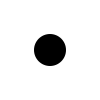
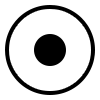
add hints

Changed region(s): [[0.03, 0.03, 0.96, 0.96]]

diff --git a/main.cpp b/main.cpp
@@ -7,12 +7,30 @@
 #include <QMouseEvent>
 #include <QToolButton>
 #include <QPushButton>
+#include <QCheckBox>
 #include <QIcon>
-#include <QSignalMapper>
+#include <QTimer>
 
 #include "game.h"
 
 Game *game;
+
+void Game::update() {
+
+	if (game->hint) {
+		int x = QCursor::pos().x() - guiBoard[0]->mapToGlobal(QPoint(0,0)).x();
+		int y = QCursor::pos().y() - guiBoard[0]->mapToGlobal(QPoint(0,0)).y();
+
+		x /= STONE_SIZE;
+		y /= STONE_SIZE;
+		if (x < BOARD_SIZE && y < BOARD_SIZE && x >= 0 && y >= 0) {
+			doHint(x, y);
+		} else {
+			doHint(-1, -1);
+		}
+	}
+
+}
 
 /* 可以偵測滑鼠事件的視窗 */
 class QMouseEventWindow : public QWidget {
@@ -27,7 +45,7 @@ void QMouseEventWindow::mouseReleaseEvent(QMouseEvent *event) {
 	int y = event->y();
 	x /= STONE_SIZE;
 	y /= STONE_SIZE;
-	if (x < BOARD_SIZE && y < BOARD_SIZE) {
+	if (x < BOARD_SIZE && y < BOARD_SIZE && x >= 0 && y >= 0) {
 		printf("Drop: (%d, %d)\n", x, y);
 		game->drop(x, y);
 	}
@@ -47,12 +65,6 @@ int main(int argc, char *argv[]) {
 	window->setFixedSize(boardWidth+200, boardWidth);
 	QWidget *board = new QWidget(window);
 	board->setFixedSize(boardWidth, boardWidth);
-
-	/* 棋盤網格排版 */
-	QGridLayout *grid = new QGridLayout;
-	grid->setSpacing(0);
-	grid->setMargin(0);
-	grid->setGeometry(QRect(0, 0, 10, 100));
 
 	/* 載入棋子圖片 */
 	QPixmap *stoneWPix = new QPixmap(":/img/stoneW.png");
@@ -75,6 +87,13 @@ int main(int argc, char *argv[]) {
 	*stoneBsPixS = stoneBsPix->scaled(stoneSize, stoneSize, Qt::IgnoreAspectRatio, Qt::SmoothTransformation);
 	QPixmap *nullPix = new QPixmap(":/img/null.png");
 
+
+	/* 棋盤網格排版 */
+	QGridLayout *grid = new QGridLayout;
+	grid->setSpacing(0);
+	grid->setMargin(0);
+	grid->setGeometry(QRect(0, 0, 10, 100));
+
 	/* 構建棋盤 */
 	QLabel *square[BOARD_SIZE*BOARD_SIZE];
 	for (int i=0; i<boardSize; i++) {
@@ -84,6 +103,7 @@ int main(int argc, char *argv[]) {
 			square[i*BOARD_SIZE+j]->setAlignment(Qt::AlignCenter);
 			square[i*BOARD_SIZE+j]->setAttribute(Qt::WA_TranslucentBackground);
 			// square[i*BOARD_SIZE+j]->setPixmap();
+			square[i*BOARD_SIZE+j]->setAttribute(Qt::WA_TransparentForMouseEvents, true);
 			grid->addWidget(square[i*BOARD_SIZE+j], i, j);
 		}
 	}
@@ -96,19 +116,31 @@ int main(int argc, char *argv[]) {
 		nullPix);
 	game->reset();
 
+	/* 計時器 */
+	QTimer *update = new QTimer;
+	update->start(10);
+	QObject::connect(update, SIGNAL(timeout()), game, SLOT(update()));
+
+	/* UI */
+	QCheckBox *hintCheckBox = new QCheckBox("Show hints");
+	hintCheckBox->setParent(window);
+	hintCheckBox->setGeometry(boardWidth+50, 50, 100, 40);
+	QObject::connect(hintCheckBox, SIGNAL(stateChanged(int)), game, SLOT(hintSwitch(int)));
+
 	/* 按鍵 */
 	QPushButton *restartBtn = new QPushButton("Restart");
 	restartBtn->setParent(window);
-	restartBtn->setGeometry(boardWidth+50, 70, 100, 40);
+	restartBtn->setGeometry(boardWidth+50, 200, 100, 40);
 	QObject::connect(restartBtn, SIGNAL(clicked()), game, SLOT(reset()));
 
 	QPushButton *exitBtn = new QPushButton("Exit");
 	exitBtn->setParent(window);
-	exitBtn->setGeometry(boardWidth+50, 120, 100, 40);
+	exitBtn->setGeometry(boardWidth+50, 240, 100, 40);
 	QObject::connect(exitBtn, SIGNAL(clicked()), &app, SLOT(quit()));
 
+	/* 準備視窗 */
 	board->setLayout(grid);
-
+	window->setMouseTracking(true);
 	window->show();
 
 	return app.exec();

diff --git a/game.h b/game.h
@@ -44,7 +44,7 @@ class Game : public QObject {
 
 		/* 取得棋盤某格的資料 */
 		piece getBoardData(int x, int y) {
-			if (x > BOARD_SIZE || y > BOARD_SIZE || x < 0 || y < 0) return null;
+			if (x > BOARD_SIZE-1 || y > BOARD_SIZE-1 || x < 0 || y < 0) return null;
 			return boardData[x+y*BOARD_SIZE];
 		}
 
@@ -149,6 +149,7 @@ class Game : public QObject {
 		}
 
 		void calcMoveAt(int x, int y, piece who) {
+			if (x > BOARD_SIZE-1 || y > BOARD_SIZE-1 || x < 0 || y < 0) return;
 			int d;
 			piece p;
 			moves[x+y*BOARD_SIZE][1][1] = 0;
@@ -176,6 +177,39 @@ class Game : public QObject {
 			}
 		}
 
+		/* 顯示提示 */
+		void doHint(int x, int y) {
+			drawBoard();
+
+			QPixmap *aPix, *sPix;
+
+			if (nxtMove == white) {
+				aPix = guiImgStoneWa;
+				sPix = guiImgStoneWs;
+			} else {
+				aPix = guiImgStoneBa;
+				sPix = guiImgStoneBs;
+			}
+
+			if (x < BOARD_SIZE && y < BOARD_SIZE && x >= 0 && y >= 0) {
+				if (moves[x+y*BOARD_SIZE][1][1] > 0) { // 可以下
+					guiBoard[x+y*BOARD_SIZE]->setPixmap(*aPix);
+					for (int i=-1; i<2; i++) {
+						for (int j=-1; j<2; j++) { // 九宮格
+							if (!(i == 0 && j == 0)) { // 跳過中間
+								for (int d=1; d<=moves[x+y*BOARD_SIZE][1+i][1+j]; d++) {
+									guiBoard[(x+i*d)+(y+j*d)*BOARD_SIZE]->setPixmap(*sPix);
+								}
+							}
+						}
+					}
+				}
+			}
+
+		}
+
+		bool hint = false; // 是否顯示提示
+
 	public slots:
 		void reset() {
 			/* Clear the board */
@@ -196,6 +230,16 @@ class Game : public QObject {
 			printf("Restarted!\n");
 			return;
 		}
+
+		void hintSwitch(int t) {
+			if (t) hint = true;
+			else hint = false;
+			drawBoard();
+			printf("hintSwitch: %d\n", t);
+			return;
+		}
+
+		void update();
 
 
 	signals:
